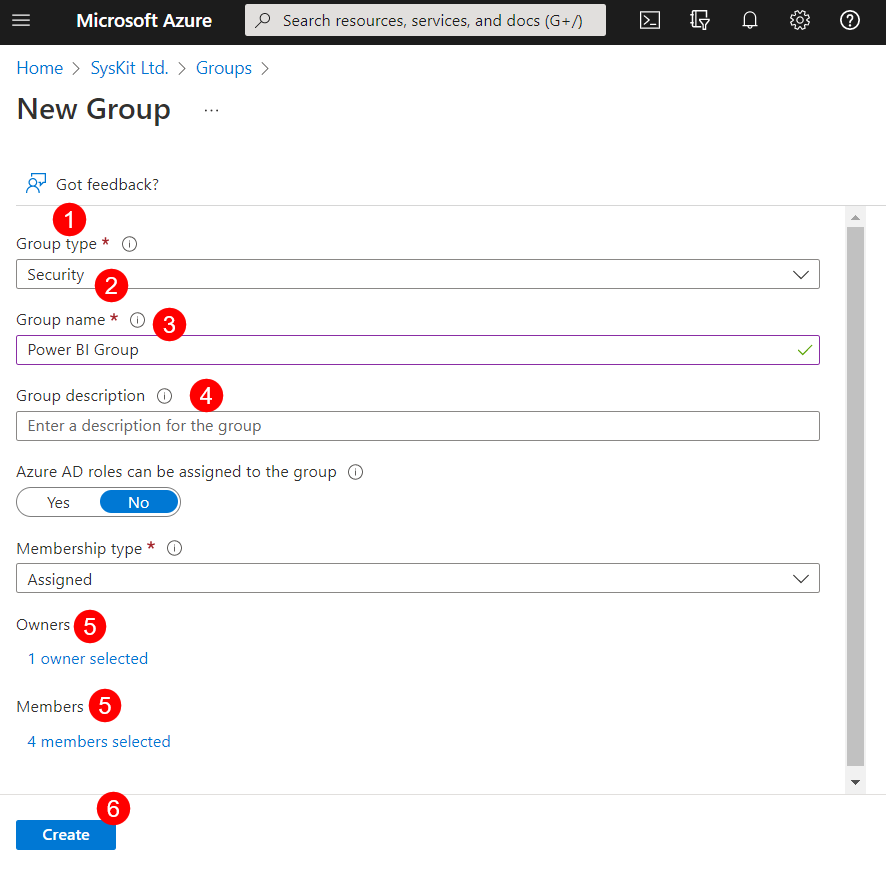
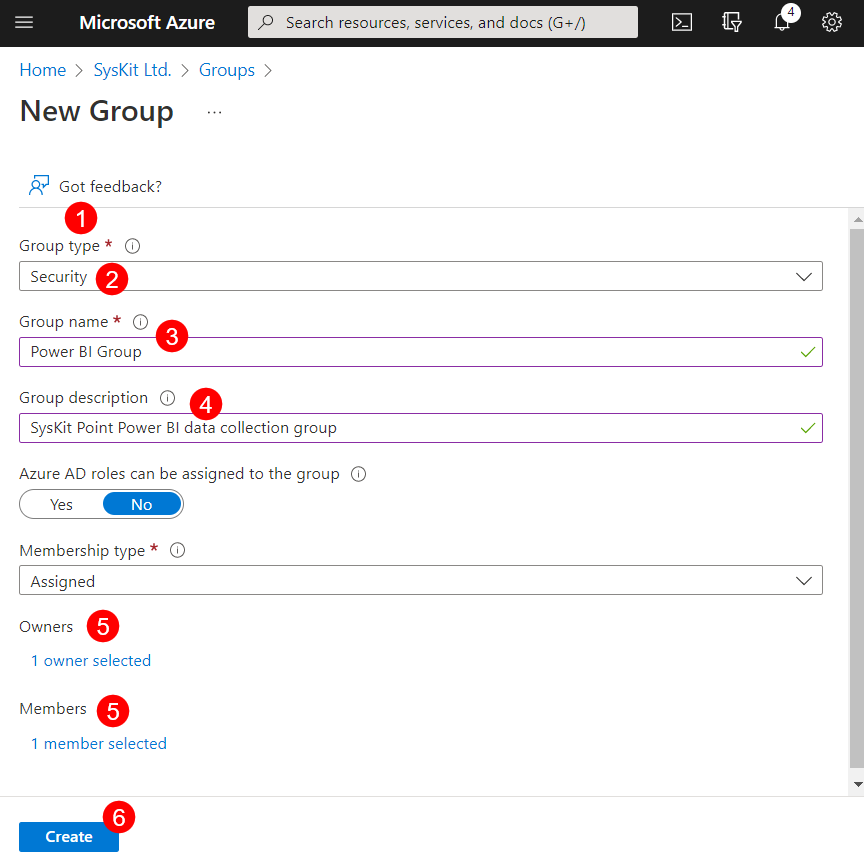
article update

diff --git a/configuration/enable-powerBI-data-collection.md b/configuration/enable-powerBI-data-collection.md
@@ -4,12 +4,12 @@ description: This article explains how to enable Power BI data collection for Sy
 
 # Enable Power BI Data Collection
 
-Enabling Power BI data collection for SysKit Point requires initial setup through your Microsoft 365 Azure Portal. 
+Enabling Power BI data collection for SysKit Point requires initial setup through your Azure Portal. 
 
 ## Create a Power BI Security Group 
 
- * **Click the [Azure Active Directory (1)](https://portal.azure.com/#view/Microsoft_AAD_IAM/ActiveDirectoryMenuBlade/~/Overview)**; on the Home page of your Azure portal. 
- * **Select Groups (2)**; located under the Manage section on the left side of the screen. Select Groups
+ * **Click the [Azure Active Directory (1)](https://portal.azure.com/#view/Microsoft_AAD_IAM/ActiveDirectoryMenuBlade/~/Overview)**, on the Home page of your Azure portal. 
+ * **Select Groups (2)**, located under the Manage section on the left side of the screen. Select Groups
  * **Click the New group button (3)** on the top bar. 
  
 ![Azure Active Directory - Create New Group](../.gitbook/assets/enable-powerbi-data-collection_aad-newgroup.png)
@@ -18,7 +18,7 @@ Fill out the following details when creating the new group:
 
  * Under **Group Type (1)**, select **Security (2)**
  * **Name (3)** the group **Power BI Group** or similar
- * For the **Group Description (4)** list the purpose of the new group
+ * For the **Group Description (4)** list the purpose of the new group, for example 'SysKit Point Power BI data collection group'
  * Select the **Owners and Members (5)** of the Group
    * Add the **SysKit Point Power Platform application** as a member of the security group
  * **Click Create (6)** when finished
@@ -27,7 +27,7 @@ Fill out the following details when creating the new group:
 
 {% hint style="warning" %}
 **Please note!**  
-Make sure the **SysKit Point Power Platform application** is selected as a member of this group, as shown in the picture below. {% endhint %}
+Make sure the **SysKit Point Power Platform application** is selected as the member of this group, as shown in the picture below. {% endhint %}
 
 ![Create New Security Group - Power BI](../.gitbook/assets/enable-powerBI-data-collection_power-platform.png)
 
@@ -50,14 +50,15 @@ The next step is to configure Power BI tenant settings which can be done in the 
      * **Enter the name (3)** of the Power BI security group that was created
      * Click **Apply (4)**
  
- ![Setting admin API settings - service principals](../.gitbook/assets/enable-powebi-data-collection_api-settings.png)
+ ![Setting admin API settings - service principals](../.gitbook/assets/enable-powerbi-data-collection_api-settings.png)
 
    * Set the toggle as **Enabled** to **Enhance admin APIs responses with detailed metadata (1)**
      * Select **Apply to: Specific security groups (2)**
      * **Enter the name (3)** of the Power BI security group that was created
      * Click **Apply (4)**
 
- ![Setting admin API settings - admin APIs responses](../.gitbook/assets/enable-powebi-data-collection_api-settings-enhance.png)
+ ![Setting admin API settings - admin APIs responses](../.gitbook/assets/enable-powerbi-data-collection_api-settings-enhance.png)
+
 
 
 {% hint style="warning" %}
